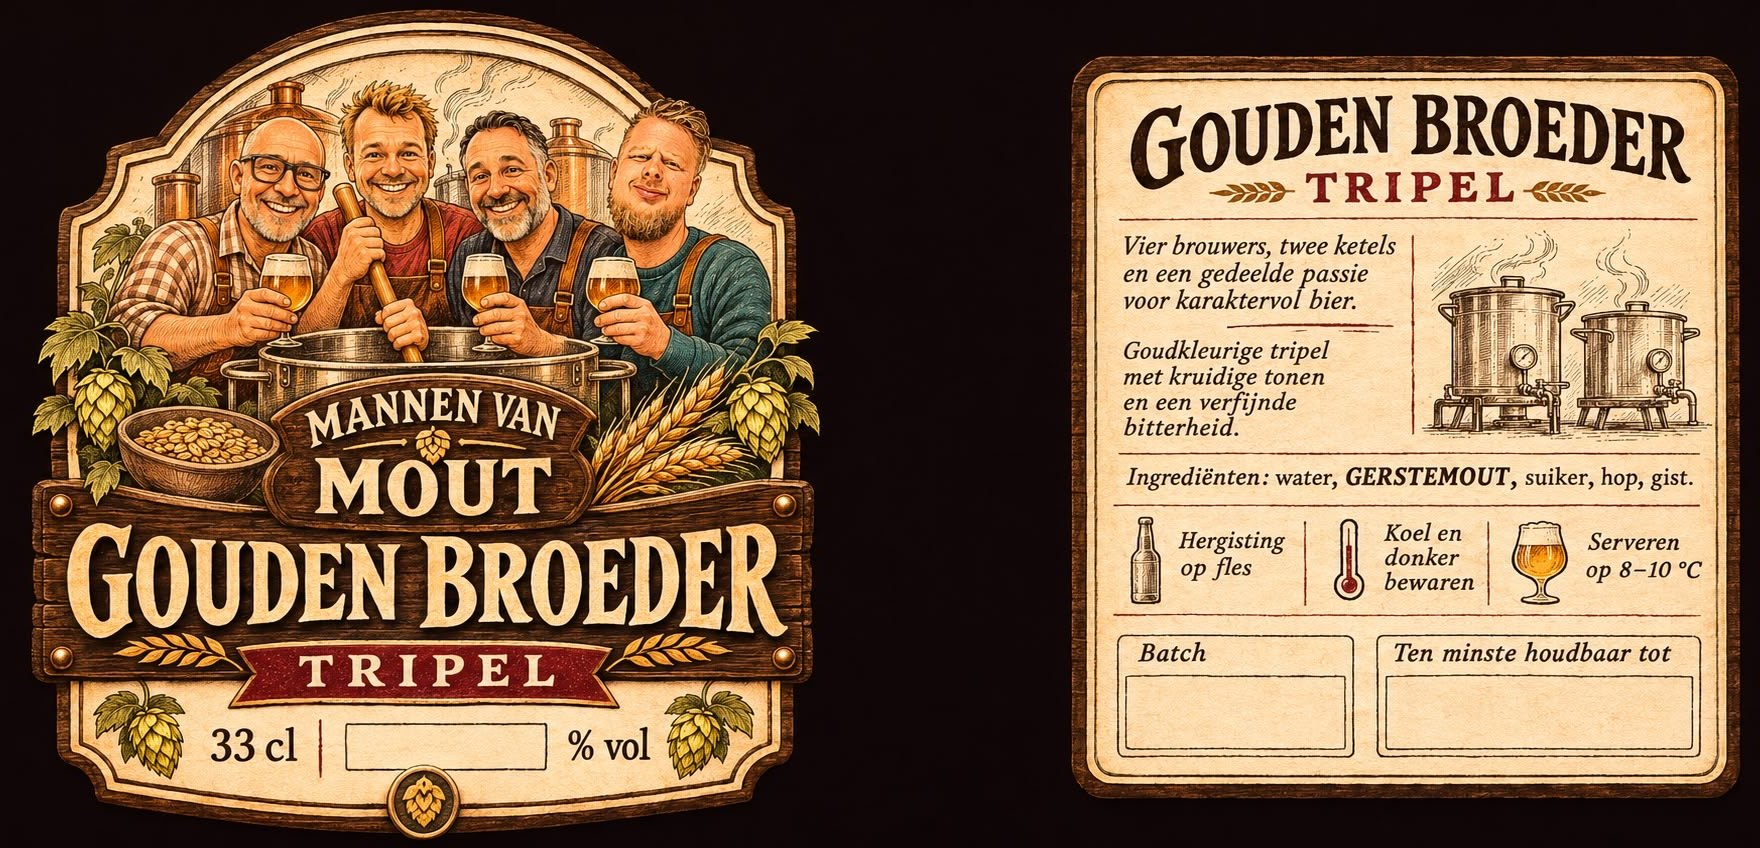
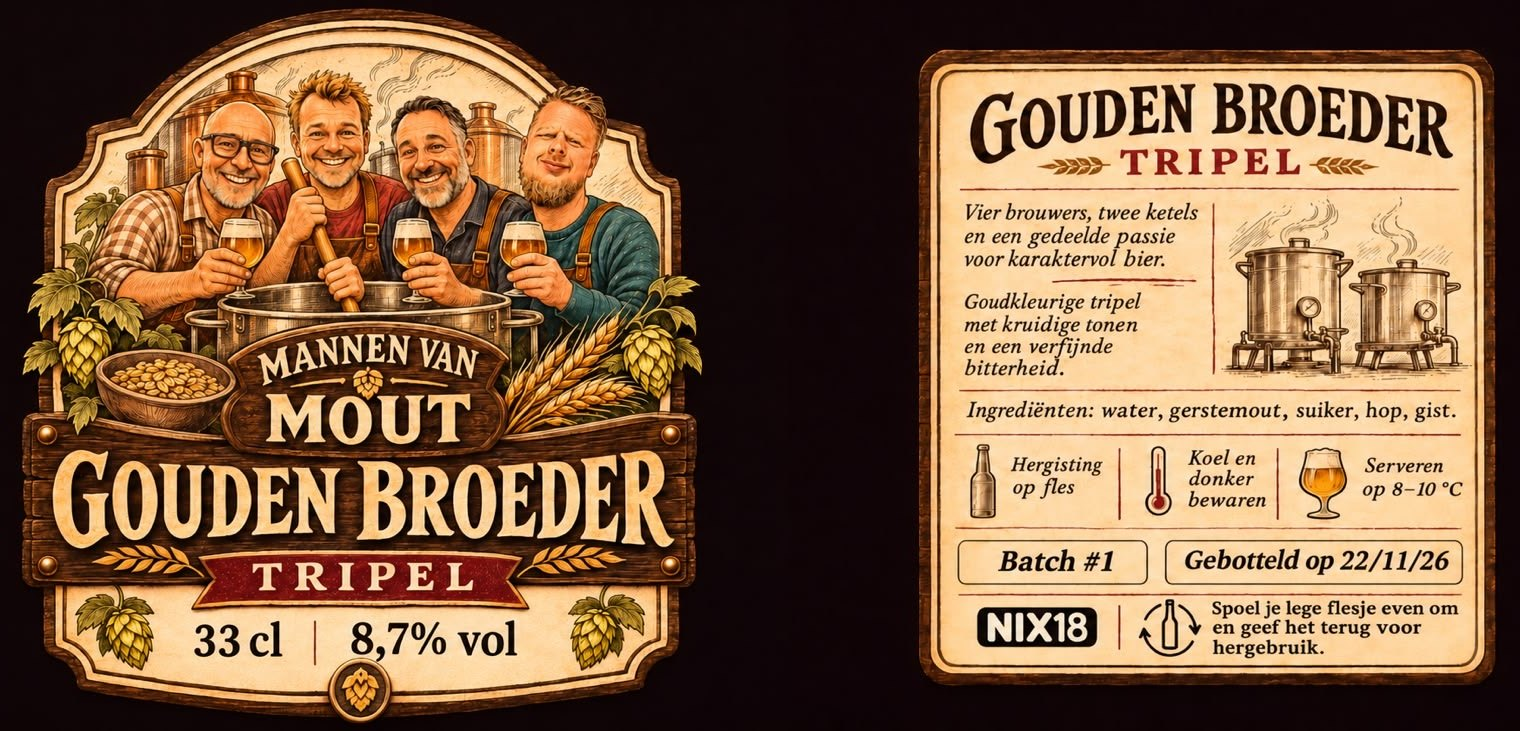
Nieuw etiket Gouden Broeder Tripel (8,7%, batch #1)
Claude-Session: https://claude.ai/code/session_01C3L5mvkgrAc1fwZViTEaaJ

diff --git a/config.js b/config.js
@@ -133,8 +133,8 @@ window.MVM_CONFIG = {
       brew: "Gouden Broeder Tripel",   // naam van het brouwsel in de brouwlog: ABV en Untappd-link komen daarvandaan
       style: "Belgische tripel",
       abv: null,             // leeg = automatisch uit de brouwlog
-      image: "assets/etiket-tripel-voor.jpg?v=2",
-      labelFull: "assets/etiket-tripel-volledig.jpg?v=2",
+      image: "assets/etiket-tripel-voor.jpg?v=3",
+      labelFull: "assets/etiket-tripel-volledig.jpg?v=3",
       description: "Een karaktervolle tripel, goud van kleur. Volmoutig, kruidig en met een verfijnde bitterheid."
     }
   ]

diff --git a/app.html b/app.html
@@ -31,7 +31,7 @@
   <div class="empty">Laden…</div>
 </main>
 
-<script src="config.js?v=34"></script>
+<script src="config.js?v=35"></script>
 <script src="https://cdn.jsdelivr.net/npm/@supabase/supabase-js@2"></script>
 <script src="importeren.js?v=5"></script>
 <script src="app.js?v=33"></script>

diff --git a/index.html b/index.html
@@ -159,7 +159,7 @@
   </div>
 </footer>
 
-<script src="config.js?v=34"></script>
+<script src="config.js?v=35"></script>
 <script src="https://cdn.jsdelivr.net/npm/@supabase/supabase-js@2"></script>
 <script src="site.js?v=29"></script>
 <script src="leeftijd.js?v=11"></script>

diff --git a/quiz.html b/quiz.html
@@ -58,7 +58,7 @@
   </div>
 </footer>
 
-<script src="config.js?v=34"></script>
+<script src="config.js?v=35"></script>
 <script src="quiz.js?v=5"></script>
 <script src="leeftijd.js?v=11"></script>
 </body>
